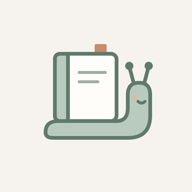
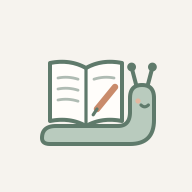
Give the work journal an open notebook for a shell; the book goes to the reading journal

Changed region(s): [[0.1875, 0.2188, 0.8125, 0.7812]]

diff --git a/index.html b/index.html
@@ -19,7 +19,7 @@
   <header class="masthead">
     <a class="home-link" href="../selma/">← All Selma journals</a>
     <div class="brand">
-      <img class="selma" src="selma-work.svg" width="56" height="56" alt="Selma the Snail, with a book for a shell">
+      <img class="selma" src="selma-work.svg" width="56" height="56" alt="Selma the Snail, with an open notebook for a shell">
       <div>
         <h1>Selma</h1>
         <p>a slow work journal</p>

diff --git a/sw.js b/sw.js
@@ -1,7 +1,7 @@
 // Selma's service worker: keeps a copy of the app so it opens offline.
 // Network first, so a connected device always gets the latest version.
 
-const CACHE = 'selma-work-v1';
+const CACHE = 'selma-work-v2';
 const APP_FILES = [
   './',
   'index.html',
